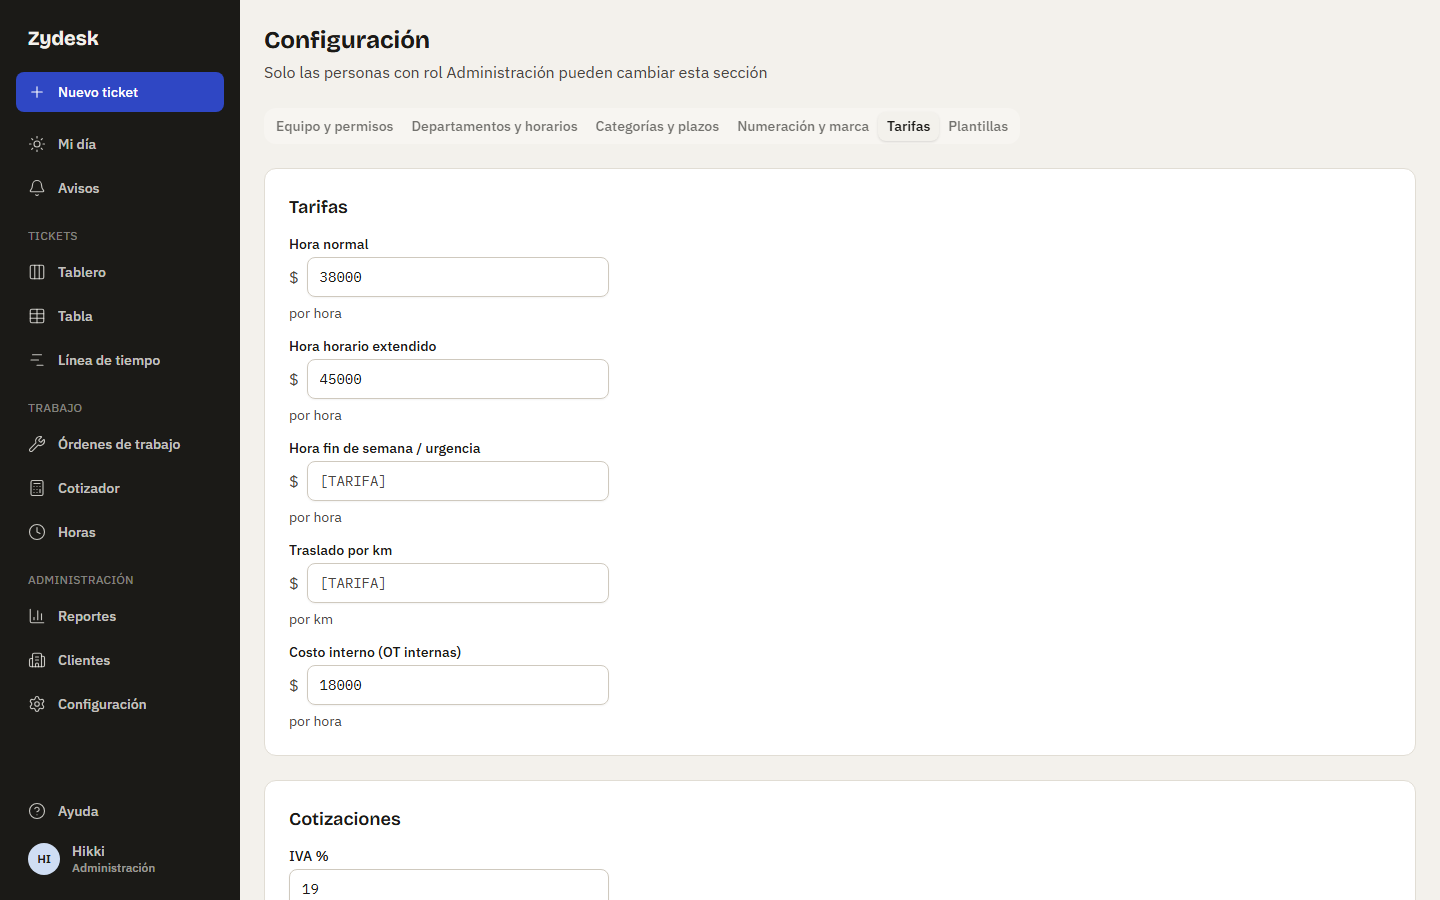
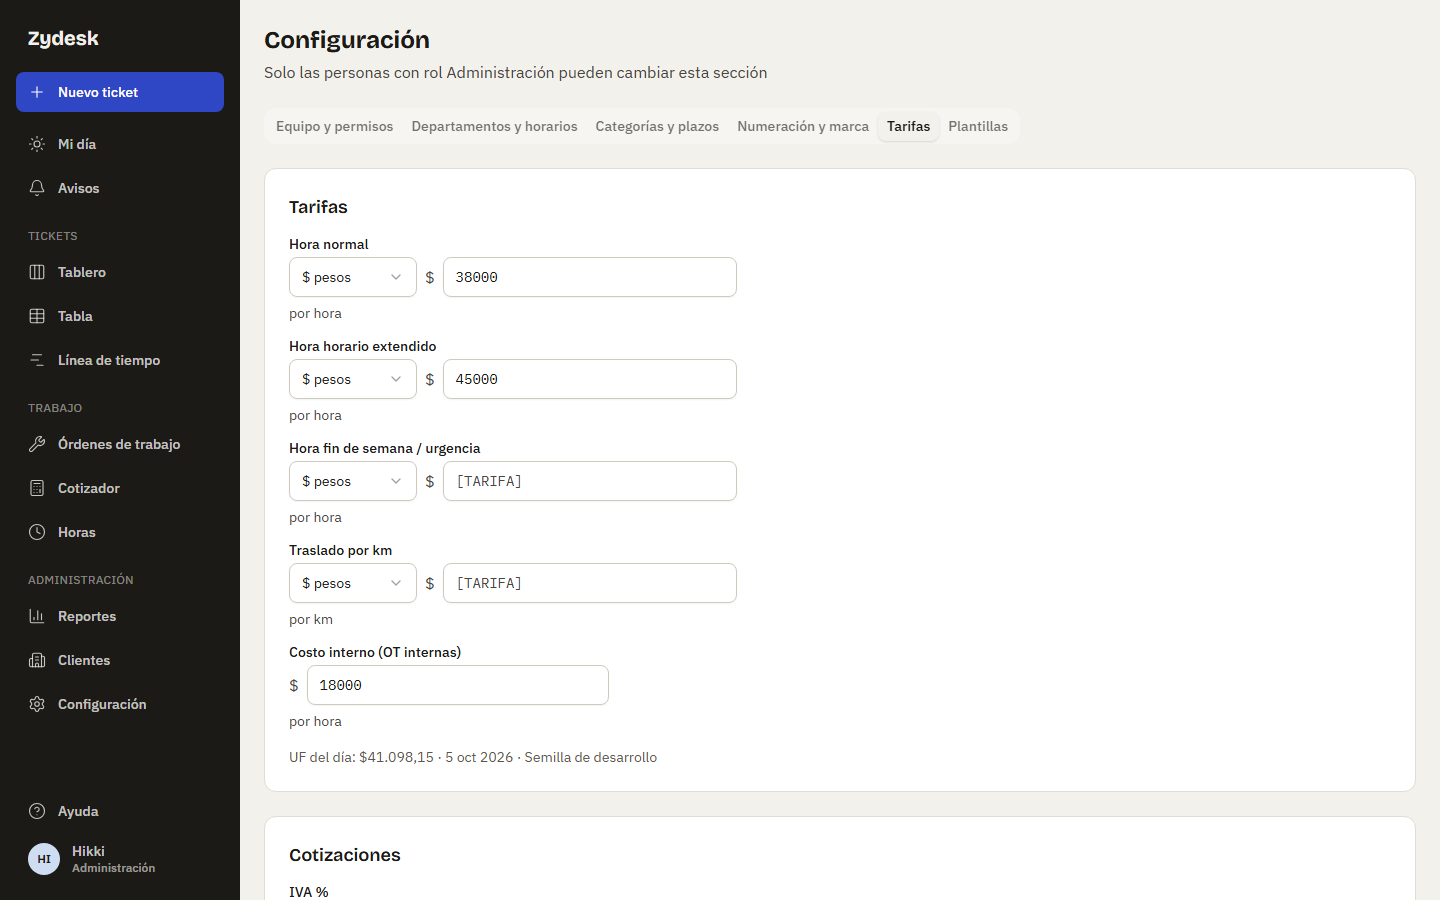
docs: Actualiza las capturas con las tarifas en UF
Tareas: F8b-T10.

La captura del cotizador duplica COT-0218 como v2 para mostrar la UF
del día con su procedencia y luego la borra; las semillas no cambian.
Se regeneran tarifas, cotizador y las que cambian por tiempo relativo.

diff --git a/apps/web/e2e/capturas.ts b/apps/web/e2e/capturas.ts
@@ -32,6 +32,7 @@ const ticket = (codigo: string) => async (page: Page) =>
 const ot = (codigo: string) => async (page: Page) => `/ots/${await idDeOt(page, codigo)}`;
 const dialogo = (page: Page) => page.getByRole('dialog');
 const TICKET = 'TK-1048';
+let versionTemporal: number | null = null; // v2 de COT-0218 creada para la captura del cotizador
 
 async function abrirRedactor(page: Page) {
   const plegado = page.getByRole('button', { name: 'Escribir seguimiento' });
@@ -197,9 +198,25 @@ const CAPTURAS: Captura[] = [
     archivo: 'cotizador',
     cuenta: 'crojas',
     ruta: async (page) => {
+      // COT-0218 v1 se sembró sin valor_uf: se duplica como v2 (la API toma la UF del día) para mostrar la UF
+      // y su procedencia. Es la única captura que escribe, y solo en la base de las semillas.
       const r = await page.request.get(`/api/ots/${await idDeOt(page, 'OT-0218')}`);
       const { cotizacion } = (await r.json()) as { cotizacion: { id: number } };
-      return `/cotizaciones/${cotizacion.id}`;
+      const d = await page.request.post(`/api/cotizaciones/${cotizacion.id}/duplicar`, {
+        headers: { 'X-Requested-With': 'Zydesk' },
+      });
+      expect(d.status()).toBe(201);
+      const v2 = (await d.json()) as { id: number };
+      versionTemporal = v2.id;
+      return `/cotizaciones/${v2.id}`;
+    },
+    // La v2 en borrador deshabilitaría «Registrar aprobación del cliente» de OT-0218 en capturas posteriores.
+    limpiar: async (page) => {
+      const d = await page.request.delete(`/api/cotizaciones/${versionTemporal}`, {
+        headers: { 'X-Requested-With': 'Zydesk' },
+      });
+      expect(d.status()).toBe(204);
+      versionTemporal = null;
     },
   },
   { manual: 'tecnico', archivo: 'tablero', cuenta: 'crojas', ruta: fija('/tickets') },
